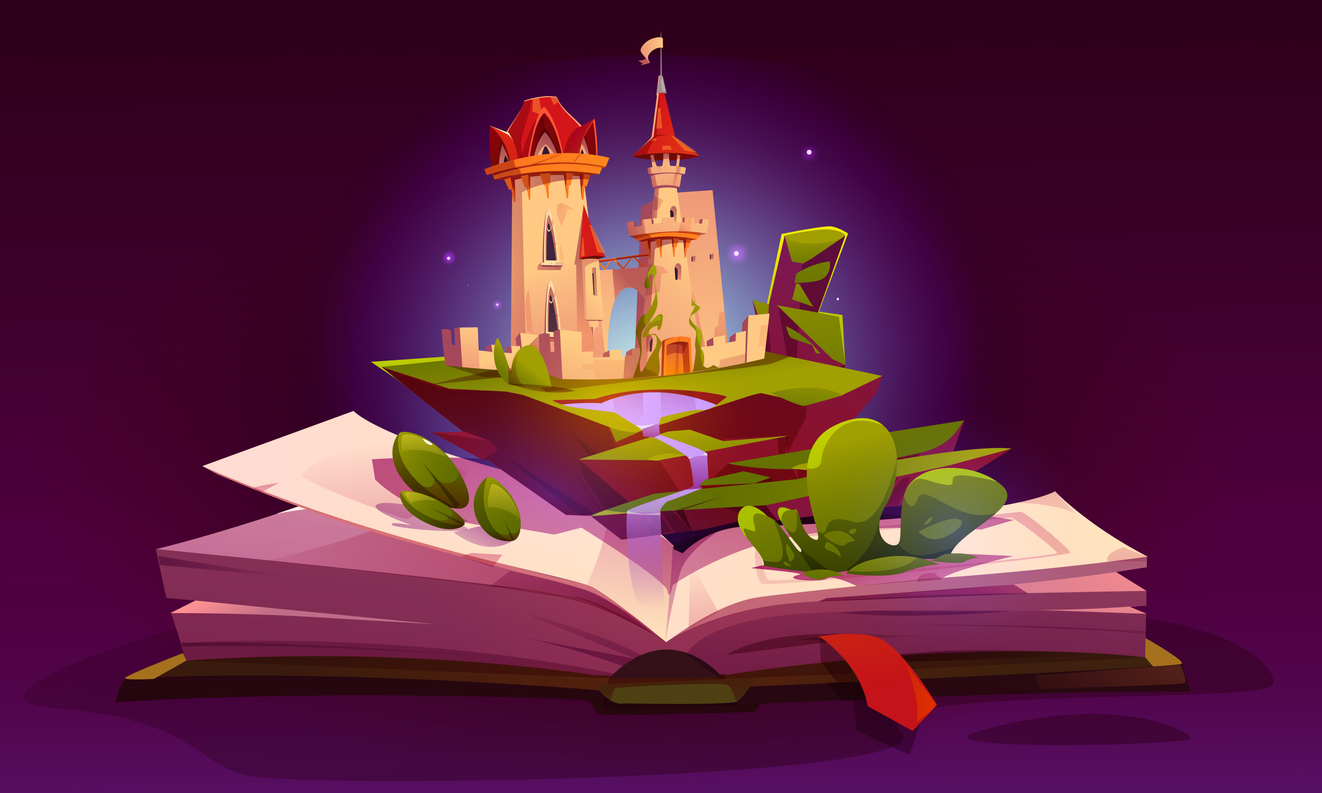
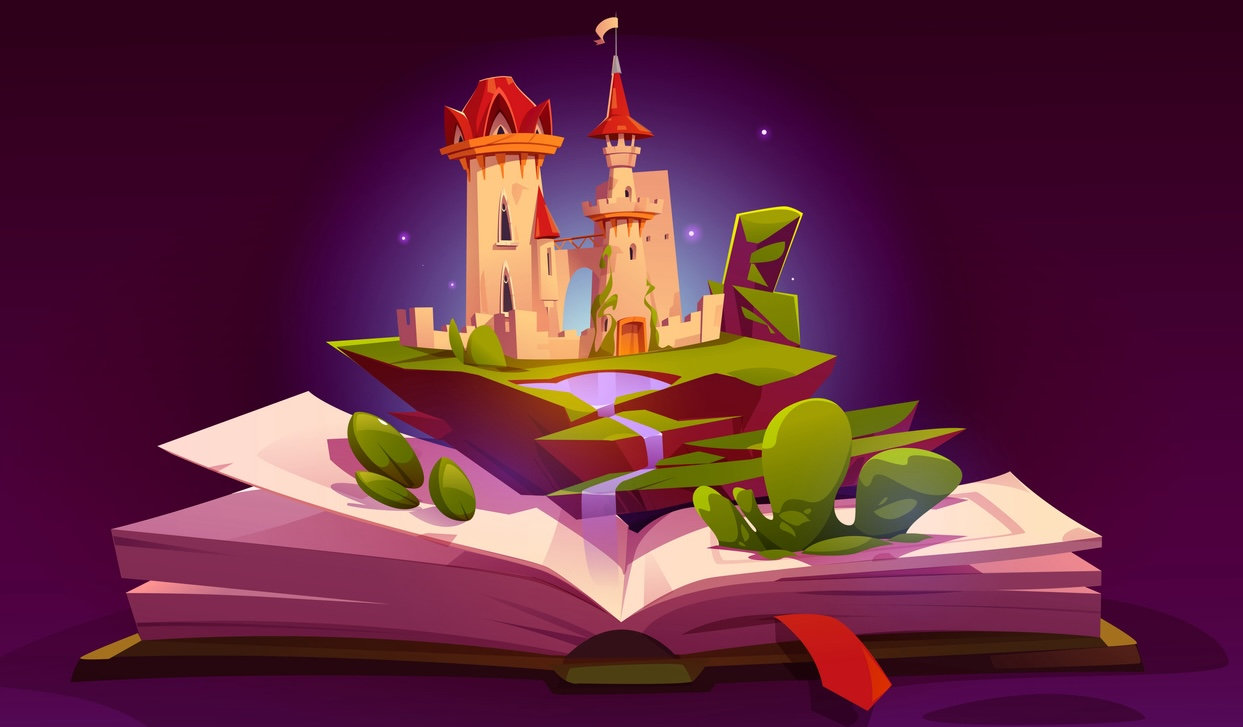
adjusted img

diff --git a/src/components/library/Library.js b/src/components/library/Library.js
@@ -3,6 +3,8 @@ import ShelfList from '../shelves/ShelfList';
 import ShelfButton from '../shelves/AddShelfButton';
 import { connect } from 'react-redux';
 
+var FirstName = 'Sanjana';
+
 
 const Library = (props) => {
 
@@ -12,7 +14,7 @@ const Library = (props) => {
         
         <div className="library container">
 
-            <h3>Hi Sanjana, welcome to your personal library! </h3>
+            <h3>Hi <span className="pink-text">{FirstName}</span>, welcome to your personal library! </h3>
             <h5>Select a shelf to view it, add books, make edits, and more! You can create up to 4 additional custom shelves. </h5>
 
         <div class="row" id="librarycards">

diff --git a/src/index.css b/src/index.css
@@ -91,7 +91,7 @@ html{
 
 #landing-block.container{
   padding-top: 25px;
-  width: 85%;
+  width: 78%;
   justify-content: center;
   align-items: center;
 }
@@ -100,7 +100,7 @@ html{
   display: block;
   margin-left: auto;
   margin-right: auto;
-  width: 92%;
+  width: 85%;
   z-index: 1;
   position: absolute;
   top: 25%;
